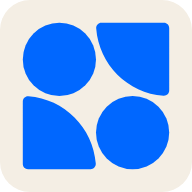
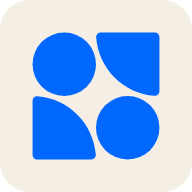
feat(marca): o manual v1.0 vira regra — um azul só, e a área de proteção do ícone
Duas coisas que o manual da marca fixa e o app não cumpria.

**Um azul só.** O manual lista o azul claro como descontinuado e proíbe junto
"variações de azul, degradês ou tons aproximados"; o checklist de aplicação
pergunta, antes de publicar, se sobrou outro azul na peça. O
`--color-azul-texto: #3385ff` que entrou hoje de manhã — o azul da marca
clareado 20% para se ler no tema escuro — é exatamente isso, e saiu.

O escuro passa a resolver como o app já resolvia nos links desde 2026-08-13:
onde o azul não alcança 4,5:1, ele deixa de ser letra. `.text-azul` vira
`--color-tinta` dentro do bloco do tema, numa sobrescrita só, e as doze chamadas
espalhadas pelo app se resolvem sem passada tela a tela. A aba ativa da navegação
tem regra própria porque não carrega a classe.

O preenchimento não muda: botão, aba selecionada da vitrine e ponto do sino
continuam no azul da marca nos dois temas, e é ali que a cor de ação segue
dizendo o que dizia. O custo está escrito no DESIGN.md sem meia-palavra: no
escuro a estrela do perfil e o prazo urgente perdem cor própria e viram texto
comum.

**Área de proteção.** "Respiro mínimo: 25% da altura do ícone", livre de texto,
borda e qualquer outro elemento. Num quadro quadrado isso limita o desenho a 2/3
do lado; o ícone de app estava com 12% de respiro, metade do que o manual pede.
`gerar-icones.mjs` passa a derivar a ocupação da regra em vez de um número
escolhido no olho, e favicon, ícones do PWA, apple-touch-icon e og.png foram
[…]

Changed region(s): [[0.0938, 0.0938, 0.9062, 0.9062]]

diff --git a/web/src/index.css b/web/src/index.css
@@ -125,25 +125,18 @@
      (4,70:1 sobre a cartela) e na etiqueta RARA (4,60:1 sobre
      `meu`, que foi clareado para isso).
 
-     O `azul-claro` **saiu** junto: a paleta oficial tem um azul só, e o
-     segundo tom era do arquivo antigo do Figma. Quem o usava era a aba
-     ativa da navegação, que passou a usar o azul de ação — 4,70:1 sobre
-     a cartela, então ele lê como texto e não só como enfeite. */
-  --color-azul: #0067ff;
-  /* O azul **quando ele é letra**, e não peça.
-     ----------------------------------------------------------
-     No claro é o mesmo azul, e é por isso que ele aponta para o token em
-     vez de repetir o hexadecimal. Existe por causa do escuro: ali o azul
-     da marca sobre a cartela dá 3,40:1 e não se lê, mas clarear o token
-     inteiro clarearia junto o **preenchimento** dos botões — que ficaria
-     ao lado do ícone da marca, chapado no azul de verdade, dando dois
-     azuis quase iguais na mesma tela. Que é exatamente o erro que fez o
-     azul da marca subir para #0067ff em primeiro lugar.
+     **É o único azul do sistema, e isso é regra de marca, não gosto.** O
+     manual (v1.0, 2026) lista o azul claro como descontinuado e proíbe
+     junto "variações de azul, degradês ou tons aproximados" — o checklist
+     de aplicação pergunta, em uma de cinco linhas, se sobrou outro azul na
+     peça. Saíram por isso o `azul-claro #6082ff` da aba ativa e o
+     `azul-texto #3385ff` que este arquivo chegou a ter por meio dia, para
+     resolver o escuro clareando a letra.
 
-     Então o escuro clareia só a letra. Quem troca é uma regra sobre a
-     classe `.text-azul` lá embaixo, como já era feito com `.border-tinta`
-     — assim as dez chamadas espalhadas pelo app não precisam saber. */
-  --color-azul-texto: var(--color-azul);
+     O escuro resolve de outro jeito, e o app já tinha a resposta escrita:
+     onde o azul não alcança 4,5:1, ele **deixa de ser letra** em vez de
+     virar outro azul. Ver a regra de `.text-azul` no bloco do tema. */
+  --color-azul: #0067ff;
   /* O branco da paleta, não o #ffffff: é o mesmo tom da cartela, e o app
      não tem dois brancos. Custa 0,09 de contraste (4,70:1 em vez de
      4,79:1) e continua acima do piso — o que não sobrevive aqui é o bege
@@ -348,18 +341,23 @@
   }
 
   /* A aba ativa era o `azul-claro`, o segundo azul do arquivo antigo do
-     Figma, que a paleta oficial não tem. Passou a ser o azul de ação na
-     forma de letra: 4,70:1 sobre a cartela no claro, 4,61:1 no escuro,
-     onde `azul-texto` já vem clareado. Uma cor a menos, e a única cor de
-     ação do app é a mesma que marca onde a pessoa está.
+     Figma, que a paleta oficial não tem. Passou a ser o azul de ação:
+     4,70:1 sobre a cartela, uma cor a menos, e a única cor de ação do app
+     é a mesma que marca onde a pessoa está.
 
-     O tracinho embaixo dela é peça, não letra, e por isso sai do
-     `--color-azul` cru: no escuro ele fica azul da marca sobre a cartela
-     (3,40:1, acima do piso de 3:1 de elemento não-textual) e continua
-     sendo o mesmo azul do ícone no cabeçalho. */
+     No escuro ela segue a mesma regra do resto e vira tinta — a
+     sobrescrita é a linha logo abaixo, e precisa ser explícita porque o
+     link não carrega a classe `.text-azul`: quem pinta a aba é este
+     seletor. Não fica sem marcação: continua em peso 800 e continua com o
+     tracinho azul embaixo, que é peça e não letra. */
   [data-mundo='brutal'] .nav-app a[aria-current='page'] {
-    color: var(--color-azul-texto);
+    color: var(--color-azul);
     font-weight: 800;
+  }
+
+  [data-tema='escuro'] [data-mundo='brutal'] .nav-app a[aria-current='page'],
+  [data-mundo='brutal'][data-tema='escuro'] .nav-app a[aria-current='page'] {
+    color: var(--color-tinta);
   }
 
   /* O tracinho da aba ativa era `bg-volt` — roxo do playmat. */
@@ -1123,12 +1121,12 @@
     --color-borda: #6b6b6b; /* 3,36:1 sobre o papel, 3,06:1 sobre a cartela */
     --color-apagado: #9a9a9a; /* 5,79:1 sobre a cartela */
 
-    /* O azul de **peça** não muda: é o da marca, o mesmo do ícone que fica
-       no cabeçalho logo acima de qualquer botão. Sobre o papel escuro ele
-       dá 3,74:1, acima do piso de 3:1 de elemento não-textual, e o branco
-       por cima dele segue nos mesmos 4,70:1 do claro. Só a **letra** azul
-       clareia — ver o bloco do token. */
-    --color-azul-texto: #3385ff;
+    /* O azul não muda, e não há sobrescrita nenhuma dele aqui: o manual da
+       marca não admite um segundo tom. Como peça ele funciona — 3,74:1
+       sobre o papel, acima do piso de 3:1 de elemento não-textual, e o
+       branco por cima dele segue nos mesmos 4,70:1 do claro. Como letra
+       ele não funciona, e quem resolve isso é a regra de `.text-azul` mais
+       abaixo. */
 
     /* O vermelho da marca clareado 35% em direção ao branco: puro ele dá
        2,77:1 aqui e reprova. Assim são 5,43:1 sobre o papel e 4,93:1
@@ -1167,16 +1165,30 @@
     border-color: var(--color-borda);
   }
 
-  /* Mesma manobra, e pelo mesmo motivo: as dez chamadas de `text-azul`
-     espalhadas pelo app — o preço do par, a etiqueta RARA, a ênfase de um
-     número — querem o azul que **se lê**, e no escuro ele é mais claro que
-     o azul de peça. Repintar a classe num lugar só resolve as dez sem
-     tocar em arquivo nenhum.
+  /* No escuro, **o azul deixa de ser letra**.
+     ------------------------------------------------------------------
+     Sobre a cartela escura o azul da marca dá 3,40:1: serve de peça e não
+     de texto. A saída óbvia seria clarear, e ela está proibida — o manual
+     não admite um segundo azul no sistema. Sobrou a saída que este app já
+     tinha escolhido uma vez, em 2026-08-13, quando o mesmo problema
+     apareceu nos links: onde o azul não se lê, ele sai e a tinta entra.
 
-     `bg-azul` fica de fora de propósito: preenchimento continua sendo o
-     azul da marca, igual ao do ícone no cabeçalho. */
+     São doze chamadas de `text-azul` espalhadas pelo app — o preço do par,
+     o prazo urgente, a estrela do perfil. Repintar a classe num lugar só
+     resolve as doze sem tocar em arquivo nenhum, que é a mesma manobra de
+     `.border-tinta` logo acima.
+
+     **O que se perde:** no escuro, a estrela e o prazo urgente deixam de
+     ter cor própria e viram texto comum. É o preço de ter um azul só, e o
+     manual cobra esse preço de propósito.
+
+     **O que não se perde:** `bg-azul` fica de fora. Preenchimento continua
+     azul nos dois temas — o botão, a aba selecionada da vitrine, o ponto do
+     sino —, e é ali que a cor de ação continua dizendo o que dizia. A
+     etiqueta RARA sai do azul mas não some da tela: ela é `bg-meu`, o azul
+     de noite, e a tinta por cima dela dá 14,16:1. */
   [data-tema='escuro'] .text-azul {
-    color: var(--color-azul-texto);
+    color: var(--color-tinta);
   }
 
   /* A palavra troca de arquivo no escuro; o ícone não.

diff --git a/web/src/routes/LabAzul.tsx b/web/src/routes/LabAzul.tsx
@@ -28,11 +28,15 @@ import { cn } from '@/lib/cn'
  * app **era**.
  *
  * O segundo achado — azul como texto que não é link — fechou em 2026-08-19,
- * pela saída A: o tema escuro passou a ter um `--color-azul-texto` clareado, e
- * com ele o preço do par e a etiqueta RARA passam. A rota fica de pé como
- * bancada: a conta aqui é a mesma, e é onde se julga o próximo tom que alguém
- * queira mexer. O `import.meta.env.DEV` em `App.tsx` garante que ela nunca
- * chegue ao usuário.
+ * e **pela saída B de novo**. A saída A chegou a entrar, na forma de um
+ * `--color-azul-texto` clareado, e saiu no mesmo dia: o manual da marca (v1.0)
+ * proíbe variação de azul no sistema. O que valeu foi a mesma regra dos links —
+ * no escuro o azul deixa de ser letra e a tinta entra, por uma sobrescrita de
+ * `.text-azul` no `index.css`.
+ *
+ * A rota fica de pé como bancada. A coluna do meio mostra a saída proibida, que
+ * é o jeito de ver o que a proibição custa. O `import.meta.env.DEV` em
+ * `App.tsx` garante que ela nunca chegue ao usuário.
  */
 
 /* ------------------------------------------------------------------ contraste
@@ -99,7 +103,7 @@ const COLUNAS: Coluna[] = [
     saida: 'claro',
     nome: 'Saída A — clarear',
     resumo: '#3385FF no escuro — o azul da marca clareado 20%.',
-    custo: 'Foi esta que entrou, em 2026-08-19, como `--color-azul-texto`.',
+    custo: 'Proibida pelo manual da marca: um azul só no sistema.',
   },
   {
     saida: 'etiqueta',
@@ -226,17 +230,17 @@ export default function LabAzul() {
                    regra de `index.css` vale para qualquer elemento que o
                    carregue.
 
-                   Quem sobrescreve, desde 2026-08-19, é a coluna "como está
-                   hoje" — invertido de propósito: a saída A **entrou**, e o
-                   tema escuro já entrega `--color-azul-texto` clareado. Para
-                   mostrar o achado é preciso desfazer a correção neste pedaço
-                   da árvore, não aplicá-la. */
+                   A saída A entra como sobrescrita da variável neste pedaço
+                   da árvore. Ela não está no app — o manual da marca a proíbe
+                   —, e é justamente por isso que a bancada segue de pé: é aqui
+                   que dá para ver quanto a proibição custa, lado a lado com o
+                   que entrou no lugar. */
                 <div
                   key={coluna.saida}
                   data-tema={tema === 'escuro' ? 'escuro' : undefined}
                   style={
-                    coluna.saida === 'atual' && tema === 'escuro'
-                      ? { ['--color-azul-texto' as string]: COR.azul }
+                    coluna.saida === 'claro' && tema === 'escuro'
+                      ? { ['--color-azul' as string]: COR.azul }
                       : undefined
                   }
                   className="rounded-[var(--radius-cartela)] border-2 border-tinta bg-papel p-3"

diff --git a/DESIGN.md b/DESIGN.md
@@ -17,11 +17,16 @@ obscurece a tarefa, o estado ou a afordância.
 
 ## Tokens (fonte: `web/src/index.css`)
 
-A paleta oficial da marca, fechada em 2026-08-19, tem sete cores: azul `#0067FF`,
-bege `#F4EEE4`, escuro `#171717`, branco `#FFFDF5`, cinza `#202020`, vermelho
-`#B2292E` e amarelo `#FF9D1B`. Os tokens abaixo são elas — e, onde uma delas não
-alcança o contraste de texto, uma derivada dela por conta, nunca um vizinho
-escolhido no olho.
+A paleta oficial da marca, fechada em 2026-08-19 e registrada no manual v1.0, tem
+sete cores: azul `#0067FF`, bege `#F4EEE4`, escuro `#171717`, branco `#FFFDF5`,
+cinza `#202020`, vermelho `#B2292E` e amarelo `#FF9D1B`. Os tokens abaixo são elas —
+e, onde uma delas não alcança o contraste de texto, uma derivada dela por conta,
+nunca um vizinho escolhido no olho.
+
+**O azul é a exceção, e a regra é do manual:** ele não admite derivada nenhuma.
+"Não usar azul claro, variações de azul, degradês ou tons aproximados" — e o
+checklist de aplicação pergunta, antes de publicar, se sobrou outro azul na peça.
+Onde o azul não alcança o contraste de texto, ele deixa de ser texto.
 
 Superfícies: `papel #F4EEE4` (fundo da página) · `cartela #FFFDF5` (tudo que se levanta
 dela com borda e sombra) · `meu #F9FAFF` (o que é meu numa troca).
@@ -45,10 +50,12 @@ Cor com significado, e só três:
 No tema escuro o papel é o `#171717` e a cartela é o cinza `#202020`. Dois acentos
 mudam ali, e os dois por conta e não por gosto:
 
-- O **azul clareia só quando é letra** — `azul-texto #3385FF`, 4,61:1 sobre a
-  cartela. O preenchimento continua no azul da marca, porque o botão azul fica na
-  mesma tela que o ícone da marca, que é chapado nele e não muda de tema: clarear o
-  botão poria dois azuis quase iguais lado a lado.
+- O **azul não muda, e deixa de ser letra**. Sobre a cartela escura ele dá 3,40:1:
+  serve de peça e não de texto. Uma versão clareada (`#3385FF`) chegou a entrar e
+  saiu no mesmo dia, porque o manual não admite um segundo azul. No lugar dela vale
+  a regra dos links: no escuro `.text-azul` vira tinta, por uma sobrescrita só. O
+  preenchimento — botão, aba selecionada, ponto do sino — continua azul nos dois
+  temas.
 - O **vermelho clareia 35%** (`#CD7477`): puro ele dá 2,77:1 no papel escuro.
 
 O amarelo entra **puro**, 8,61:1 — no escuro a cor da marca é texto sem ajuste
@@ -57,6 +64,24 @@ nenhum.
 Não existe cor por lista. Ofereço e Procuro se distinguem por aba, rótulo e posição —
 nesta grade o azul já é `RARE` e o âmbar já é `ULTRA RARE` dentro da própria célula, e
 uma terceira cor de região disputaria a leitura.
+
+## A marca
+
+Duas peças: o **ícone** (`public/marca.svg`) e a **palavra** (`palavra.svg` e
+`palavra-escura.svg`). Saem de `idv_troca_tcg/logo_finalizada/SVG` e não se
+reconstroem à mão — o manual é explícito nisso.
+
+O ícone é sempre `#0067FF`, nos dois temas. Quem troca é a palavra: escura no claro,
+clara no escuro. É a regra central do manual, e a única do sistema de marca que o CSS
+precisa saber (`.palavra-svg` no bloco do tema escuro).
+
+**Área de proteção: 25% da altura do ícone**, livre de texto, borda e qualquer outro
+elemento. Onde isso pesa é no ícone de app — `scripts/gerar-icones.mjs` deriva a
+ocupação dessa regra, e ela derruba o desenho para 2/3 do lado do quadro. O ícone
+encolheu em 2026-08-19 por causa dela.
+
+**Mínimos**: 24px para o ícone isolado, 160px para a assinatura horizontal. O lockup
+do cabeçalho tem 28px de ícone e ~178px de largura — passa nos dois.
 
 Raios: `cartela 20px` · `controle 12px` · `imagem 8px` · `etiqueta 6px`.
 
@@ -163,22 +188,32 @@ vinham pintados igual:
 Nas duas o azul sai e a tinta entra: **14,12:1** no escuro, **17,60:1** no claro. O
 `--color-azul` continua inteiro onde sempre funcionou — fundo de peça, tinta branca por
 cima. O `--color-azul-claro` que servia à aba ativa **deixou de existir** em 2026-08-19,
-com a paleta oficial: a aba passou a usar o `azul-texto`, que no claro é o próprio azul
-de ação e no escuro é a versão clareada — sobrescrita dentro de `[data-tema='escuro']`,
-que é o que ela sempre teve de ser, porque `#3385FF` sobre a cartela clara dá 3,2:1 e
-reprovaria.
+com a paleta oficial: a aba passou a usar o azul de ação, e no escuro segue a mesma
+regra desta seção — vira tinta, com o tracinho azul embaixo fazendo a marcação que a
+cor fazia.
 
-## Achado em aberto: azul como texto que não é link
+## Achado fechado: azul como texto que não é link
 
-A passada acima cobriu os 19 links. Sobrou o azul usado como **ênfase de texto**, que
-tem o mesmo número e não foi tocado: o preço no rodapé do par de cartas
-(`Pecas.tsx`), o "· eu procuro" de `MontarProposta`, os valores grandes de `Carta`, o
-prazo urgente de `Matches` e o selo "Troca" do histórico (`border-azul bg-meu
-text-azul`, que sobre o `bg-meu` escuro cai para **2,42:1**, o pior do app).
+A passada acima cobriu os 19 links. Sobrou o azul usado como **ênfase de texto**: o
+preço no rodapé do par de cartas (`Pecas.tsx`), o "· eu procuro" de `MontarProposta`,
+os valores grandes de `Carta`, o prazo urgente de `Matches`, a estrela de
+`FichaPerfil` e o selo "Troca" do histórico. Nenhum é link, então a regra das duas
+formas não os alcançava, e por meses eles ficaram como estavam — o selo do histórico
+sobre `bg-meu` escuro chegava a **2,42:1**, o pior do app.
 
-Nenhum deles é link, então a regra das duas formas não os alcança — e trocá-los por
-tinta apagaria a distinção que eles existem para fazer. É decisão de desenho própria,
-não mecânica.
+Fechou em 2026-08-19, e quem fechou foi o **manual da marca**: com um azul só
+permitido no sistema, clarear deixou de ser opção, e sobrou a mesma saída dos links.
+No tema escuro `.text-azul` vira `--color-tinta`, numa sobrescrita só, e as doze
+chamadas se resolvem sem passada tela a tela.
+
+**O que isso custa, dito na cara:** no escuro a estrela e o prazo urgente perdem cor
+própria e viram texto comum. A distinção que a cor fazia ali passa a ser feita por
+posição e por peso. É o preço de ter um azul só, e o manual cobra esse preço de
+propósito — no claro nada muda, porque lá o azul se lê (4,70:1 sobre a cartela).
+
+A rota `/lab/azul` fica de pé como bancada, agora com a coluna do meio mostrando a
+saída proibida: é o jeito de ver quanto a proibição custa, lado a lado com o que
+entrou no lugar.
 
 ## O que ficou para depois
 
